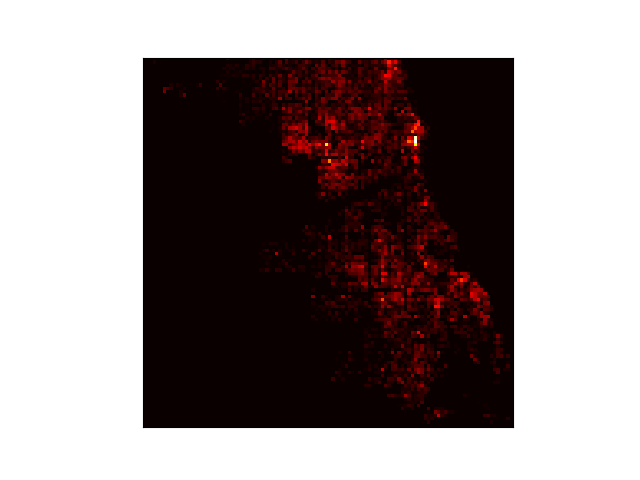
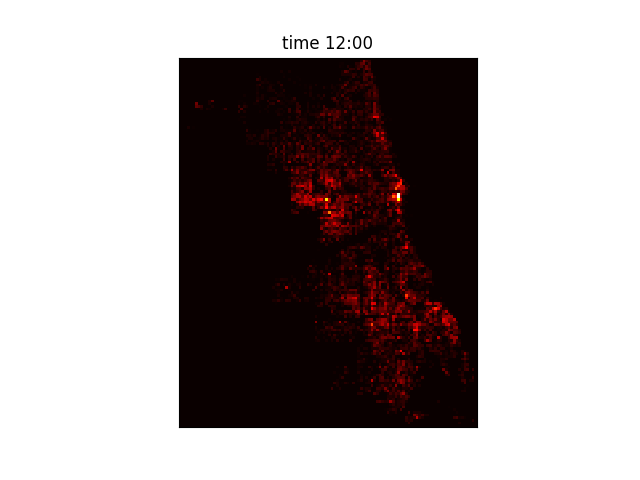
timemap made with gif

diff --git a/data_plot.py b/data_plot.py
@@ -7,13 +7,14 @@ def main():
 		reduction = 1000
 		if len(X) > 1:
 			heatIm, x_min, y_min = makeHeatmap(X, Y, sev, reduction)
+			plt.title('time ' + str(i) + ':00')
 			plt.savefig('time_' + str(i) + '.png')
 			print('saved at time ' + str(i))
 			plt.clf()
 		else:
 			print('empty data at time ' + str(i))
-		# plot_results(heatData, gmm.predict(heatData), gmm.means_, gmm.covariances_, 0,'Gaussian Mixture')
-
+		#to make gif in terminal use command: 
+		#convert -loop 0 -delay 40 time_10.png time_11.png time_12.png time_13.png time_14.png time_15.png time_16.png time_17.png time_18.png time_19.png time_20.png time_21.png time_22.png time_23.png time.gif
 def getData(num):
 	import data_date
 
@@ -44,7 +45,7 @@ def makeHeatmap(X, Y, sev, data_reduce):
 	x_min = 1094.231
 	y_min = 1813.91
 	x_len = 110.886
-	y_len = 110.886
+	y_len = 137.625
 
 	#shift to [0,0] to save figure space
 	x_shift = X - x_min
